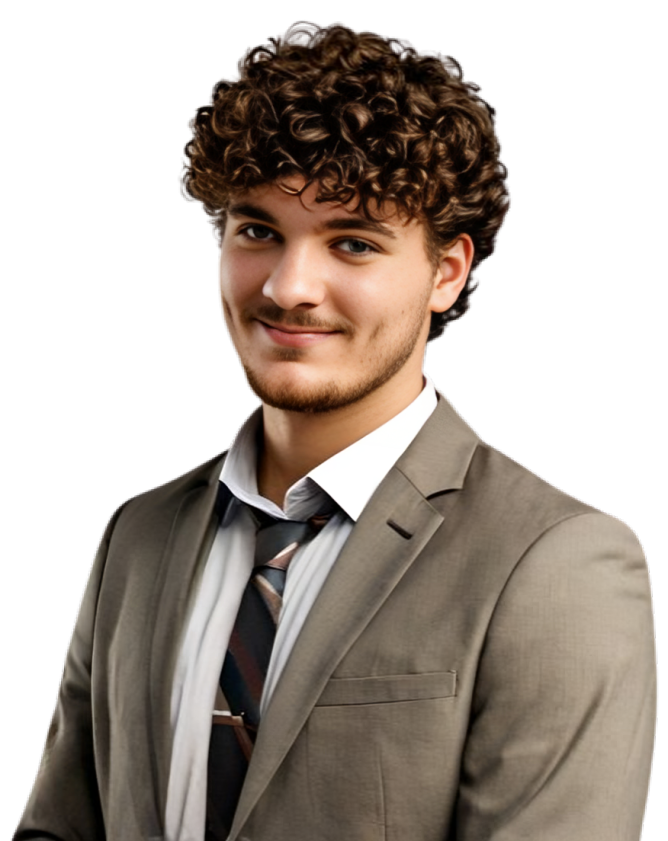
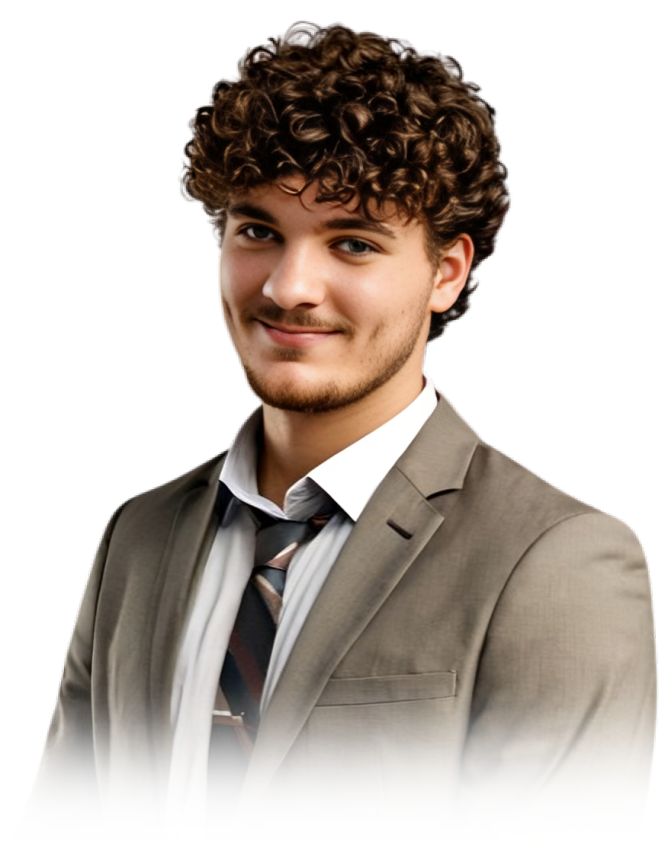
Done photo edit/perfect portfolio photo :)

Changed region(s): [[0.0, 0.8038, 0.988, 1.0]]

diff --git a/src/components/Home/Home.jsx b/src/components/Home/Home.jsx
@@ -41,7 +41,7 @@ const Home = () => {
                         alt={t("Home_Image_Alt")}
                         className="img-fluid" 
                         loading="lazy" 
-                        width="600"
+                        width="550"
                         height="auto"
                     />
                 </div>

diff --git a/src/components/Home/home.css b/src/components/Home/home.css
@@ -20,7 +20,7 @@
 }
 
 .photo img{
-    max-width: 600px;
+    max-width: 550px;
     width: 100%;
     height: auto;
     position: relative;
